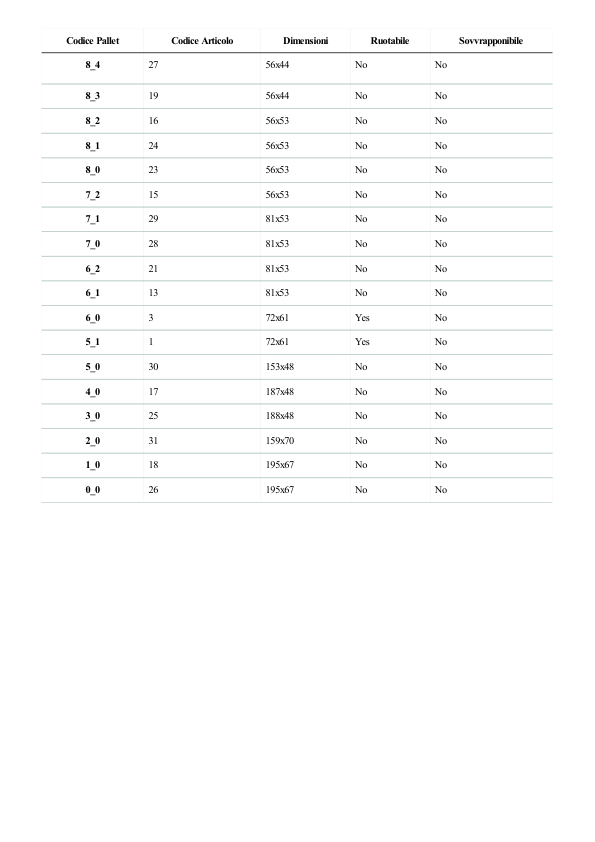
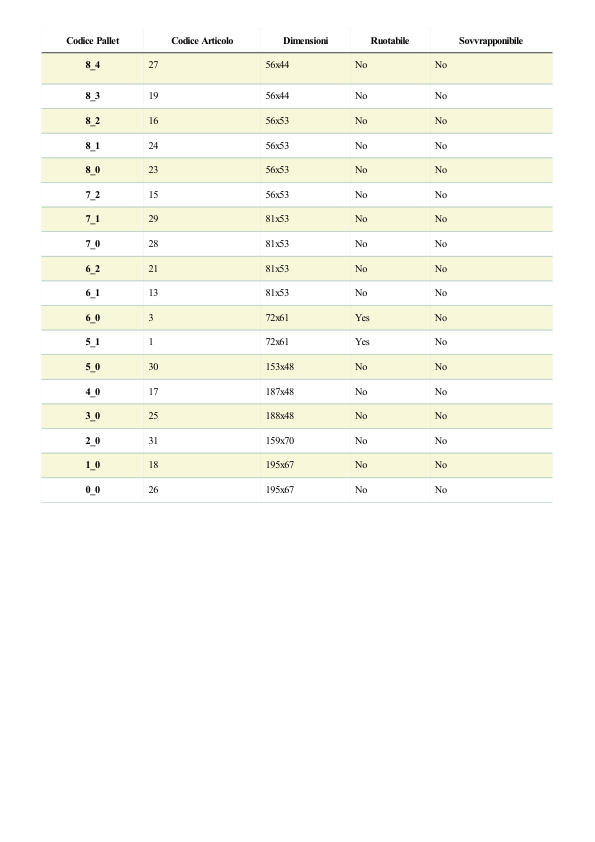
la tabella dinamica ora è zebrata

Changed region(s): [[0.0605, 0.247, 0.9378, 0.5867], [0.0605, 0.0618, 0.9378, 0.2162]]

diff --git a/stable/template_bolla.html b/stable/template_bolla.html
@@ -72,7 +72,7 @@
 <td style="font-family:'Serif'">No</td>
 <td style="font-family:'Serif'">No</td>
 </tr id="end_of_colonna_dinamica">
-<tr id="colonna_dinamica">
+<tr id="colonna_dinamica" style="background-color:#f7f7da;">
 <th scope="row" style="font-family:'Serif'">10_0</th>
 <td style="font-family:'Serif'">22</td>
 <td style="font-family:'Serif'">53x10</td>
@@ -86,7 +86,7 @@
 <td style="font-family:'Serif'">No</td>
 <td style="font-family:'Serif'">No</td>
 </tr id="end_of_colonna_dinamica">
-<tr id="colonna_dinamica">
+<tr id="colonna_dinamica" style="background-color:#f7f7da;">
 <th scope="row" style="font-family:'Serif'">9_7</th>
 <td style="font-family:'Serif'">12</td>
 <td style="font-family:'Serif'">53x10</td>
@@ -100,7 +100,7 @@
 <td style="font-family:'Serif'">No</td>
 <td style="font-family:'Serif'">No</td>
 </tr id="end_of_colonna_dinamica">
-<tr id="colonna_dinamica">
+<tr id="colonna_dinamica" style="background-color:#f7f7da;">
 <th scope="row" style="font-family:'Serif'">9_5</th>
 <td style="font-family:'Serif'">10</td>
 <td style="font-family:'Serif'">73x23</td>
@@ -114,7 +114,7 @@
 <td style="font-family:'Serif'">No</td>
 <td style="font-family:'Serif'">Yes</td>
 </tr id="end_of_colonna_dinamica">
-<tr id="colonna_dinamica">
+<tr id="colonna_dinamica" style="background-color:#f7f7da;">
 <th scope="row" style="font-family:'Serif'">9_3</th>
 <td style="font-family:'Serif'">7</td>
 <td style="font-family:'Serif'">68x31</td>
@@ -128,7 +128,7 @@
 <td style="font-family:'Serif'">No</td>
 <td style="font-family:'Serif'">No</td>
 </tr id="end_of_colonna_dinamica">
-<tr id="colonna_dinamica">
+<tr id="colonna_dinamica" style="background-color:#f7f7da;">
 <th scope="row" style="font-family:'Serif'">9_1</th>
 <td style="font-family:'Serif'">2</td>
 <td style="font-family:'Serif'">60x40</td>
@@ -142,7 +142,7 @@
 <td style="font-family:'Serif'">No</td>
 <td style="font-family:'Serif'">No</td>
 </tr id="end_of_colonna_dinamica">
-<tr id="colonna_dinamica">
+<tr id="colonna_dinamica" style="background-color:#f7f7da;">
 <th scope="row" style="font-family:'Serif'">8_4</th>
 <td style="font-family:'Serif'">27</td>
 <td style="font-family:'Serif'">56x44</td>
@@ -156,7 +156,7 @@
 <td style="font-family:'Serif'">No</td>
 <td style="font-family:'Serif'">No</td>
 </tr id="end_of_colonna_dinamica">
-<tr id="colonna_dinamica">
+<tr id="colonna_dinamica" style="background-color:#f7f7da;">
 <th scope="row" style="font-family:'Serif'">8_2</th>
 <td style="font-family:'Serif'">16</td>
 <td style="font-family:'Serif'">56x53</td>
@@ -170,7 +170,7 @@
 <td style="font-family:'Serif'">No</td>
 <td style="font-family:'Serif'">No</td>
 </tr id="end_of_colonna_dinamica">
-<tr id="colonna_dinamica">
+<tr id="colonna_dinamica" style="background-color:#f7f7da;">
 <th scope="row" style="font-family:'Serif'">8_0</th>
 <td style="font-family:'Serif'">23</td>
 <td style="font-family:'Serif'">56x53</td>
@@ -184,7 +184,7 @@
 <td style="font-family:'Serif'">No</td>
 <td style="font-family:'Serif'">No</td>
 </tr id="end_of_colonna_dinamica">
-<tr id="colonna_dinamica">
+<tr id="colonna_dinamica" style="background-color:#f7f7da;">
 <th scope="row" style="font-family:'Serif'">7_1</th>
 <td style="font-family:'Serif'">29</td>
 <td style="font-family:'Serif'">81x53</td>
@@ -198,7 +198,7 @@
 <td style="font-family:'Serif'">No</td>
 <td style="font-family:'Serif'">No</td>
 </tr id="end_of_colonna_dinamica">
-<tr id="colonna_dinamica">
+<tr id="colonna_dinamica" style="background-color:#f7f7da;">
 <th scope="row" style="font-family:'Serif'">6_2</th>
 <td style="font-family:'Serif'">21</td>
 <td style="font-family:'Serif'">81x53</td>
@@ -212,7 +212,7 @@
 <td style="font-family:'Serif'">No</td>
 <td style="font-family:'Serif'">No</td>
 </tr id="end_of_colonna_dinamica">
-<tr id="colonna_dinamica">
+<tr id="colonna_dinamica" style="background-color:#f7f7da;">
 <th scope="row" style="font-family:'Serif'">6_0</th>
 <td style="font-family:'Serif'">3</td>
 <td style="font-family:'Serif'">72x61</td>
@@ -226,7 +226,7 @@
 <td style="font-family:'Serif'">Yes</td>
 <td style="font-family:'Serif'">No</td>
 </tr id="end_of_colonna_dinamica">
-<tr id="colonna_dinamica">
+<tr id="colonna_dinamica" style="background-color:#f7f7da;">
 <th scope="row" style="font-family:'Serif'">5_0</th>
 <td style="font-family:'Serif'">30</td>
 <td style="font-family:'Serif'">153x48</td>
@@ -240,7 +240,7 @@
 <td style="font-family:'Serif'">No</td>
 <td style="font-family:'Serif'">No</td>
 </tr id="end_of_colonna_dinamica">
-<tr id="colonna_dinamica">
+<tr id="colonna_dinamica" style="background-color:#f7f7da;">
 <th scope="row" style="font-family:'Serif'">3_0</th>
 <td style="font-family:'Serif'">25</td>
 <td style="font-family:'Serif'">188x48</td>
@@ -254,7 +254,7 @@
 <td style="font-family:'Serif'">No</td>
 <td style="font-family:'Serif'">No</td>
 </tr id="end_of_colonna_dinamica">
-<tr id="colonna_dinamica">
+<tr id="colonna_dinamica" style="background-color:#f7f7da;">
 <th scope="row" style="font-family:'Serif'">1_0</th>
 <td style="font-family:'Serif'">18</td>
 <td style="font-family:'Serif'">195x67</td>

diff --git a/stable/EasyPalletSolution.py b/stable/EasyPalletSolution.py
@@ -100,12 +100,16 @@ def create_pdf(mainfolder,data):
                     tt_lines = strt_line[0] - strt_line[1]
                     break
         tt_lines = strt_line[1] - strt_line[0]
+        j = 0
         for pallet in built_pallets:
             i=0
             idx = tt_lines -2
             k = strt_line[1]
             stringhe = []
-            stringhe.append('''<tr id="colonna_dinamica">\n''')
+            if j % 2 == 0:
+                stringhe.append('''<tr id="colonna_dinamica">\n''') # 
+            else:
+                stringhe.append('''<tr id="colonna_dinamica" style="background-color:#f7f7da;">\n''')
             stringhe.append('''<th scope="row" style="font-family:\'Serif\'">{0}</th>\n'''.format(str(pallet)))
             stringhe.append('''<td style="font-family:\'Serif\'">{0}</td>\n'''.format(built_pallets[str(pallet)]['NUMERO_COLLO']))
             dimensioni = str(built_pallets[str(pallet)]['BASE_MAGGIORE'])
@@ -129,6 +133,8 @@ def create_pdf(mainfolder,data):
                 buffer.insert(k,stringa)
                 k = k + 1
                 i=i+1
+            
+            j = j+1           
 
         with open(html_path,'w') as h:
             h.writelines(buffer)
